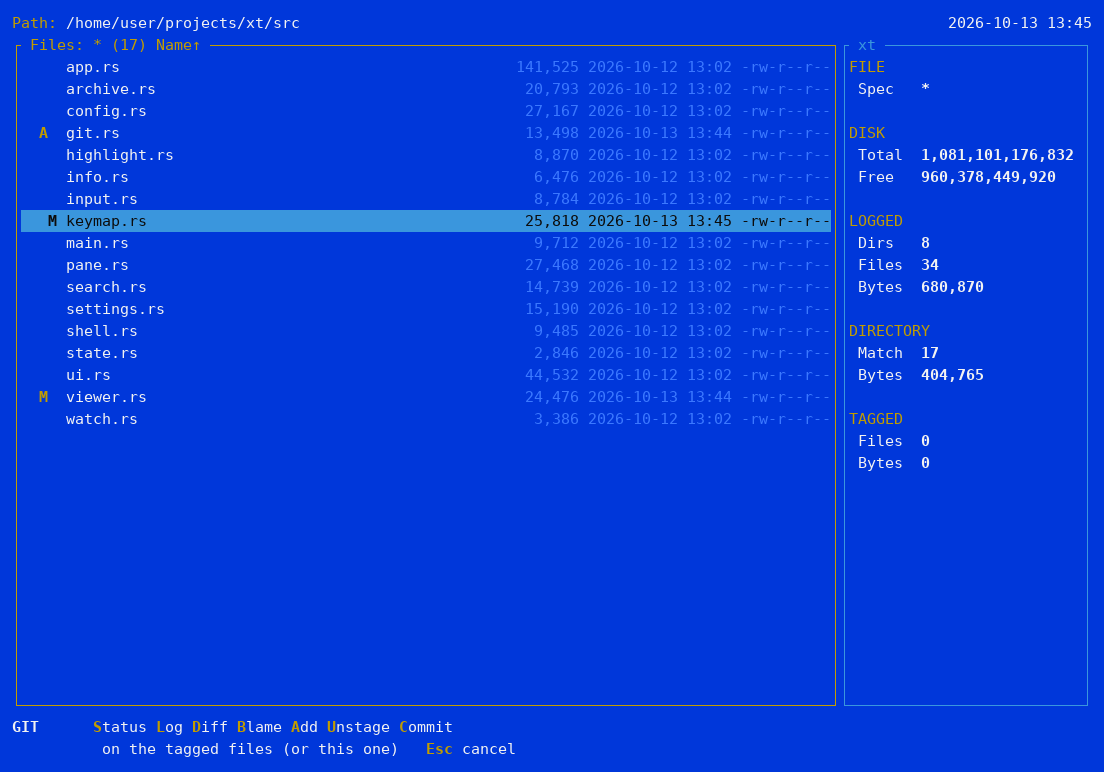
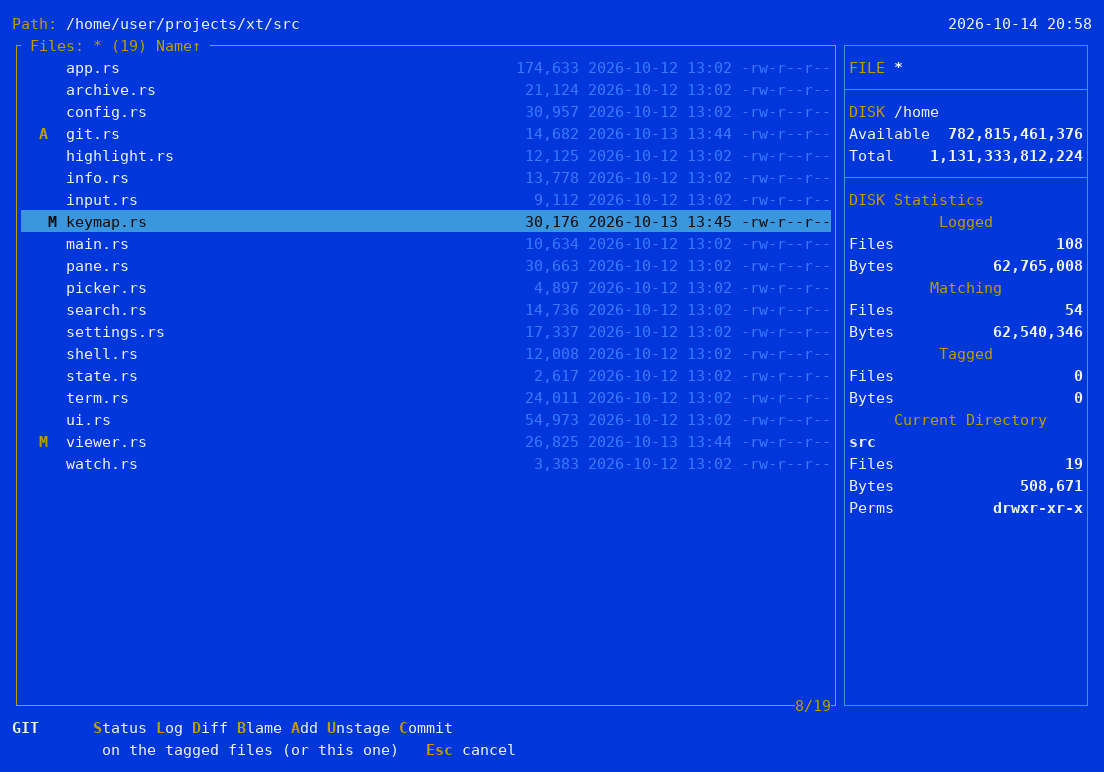
README: new screenshots (right panel, terminal) and the tool that makes them
Tree, gruvbox theme, Branch with tagged files, Git menu and split window
show the new right panel and the position counters on the borders; two
new ones show the built-in terminal (the tree following a cd, and Alt+O
typing the tagged files), in both READMEs.

docs/screenshots/tools/run.sh regenerates them: xt runs in an emulated
terminal (pyte) on a sample tree, mounted at /home/user/projects only
inside a private namespace (unshare), and each screen is drawn as a PNG
with the Campbell colors and DejaVu Sans Mono.

diff --git a/docs/screenshots/tools/shot.py b/docs/screenshots/tools/shot.py
@@ -1,0 +1,109 @@
+"""Runs xt in a pseudo-terminal, sends keys and saves the screen as a PNG.
+
+Usage: shot.py OUT.png XT ROOT [STEP...]; a step is text to type (with
+escapes, e.g. '\\x1bx' for Alt+X) or 'sleep:SECONDS'."""
+import fcntl, os, pty, select, struct, sys, termios, time
+import pyte
+from PIL import Image, ImageDraw, ImageFont
+
+COLS, ROWS, CW, CH, PAD = 120, 34, 9, 22, 12
+# Windows Terminal's "Campbell", as in the first screenshots.
+NAMED = {
+    "black": "0c0c0c", "red": "c50f1f", "green": "13a10e", "brown": "c19c00",
+    "blue": "0037da", "magenta": "881798", "cyan": "3a96dd", "white": "cccccc",
+    "brightblack": "767676", "brightred": "e74856", "brightgreen": "16c60c",
+    "brightbrown": "f9f1a5", "brightblue": "3b78ff", "brightmagenta": "b4009e",
+    "brightcyan": "61d6d6", "brightwhite": "f2f2f2",
+}
+# The same 16 colors when they come as indexes (ESC[38;5;Nm): pyte turns
+# them into xterm's tones.
+XTERM = ["000000", "cd0000", "00cd00", "cdcd00", "0000ee", "cd00cd", "00cdcd", "e5e5e5",
+         "7f7f7f", "ff0000", "00ff00", "ffff00", "5c5cff", "ff00ff", "00ffff", "ffffff"]
+CAMPBELL = ["black", "red", "green", "brown", "blue", "magenta", "cyan", "white"]
+CAMPBELL += ["bright" + c for c in CAMPBELL]
+for tone, name in zip(XTERM, CAMPBELL):
+    NAMED[tone] = NAMED[name]
+DEFAULT_FG, DEFAULT_BG = "cccccc", "0c0c0c"
+FONT = "/usr/share/fonts/truetype/dejavu/DejaVuSansMono.ttf"
+BOLD = "/usr/share/fonts/truetype/dejavu/DejaVuSansMono-Bold.ttf"
+
+out, xt, root, steps = sys.argv[1], sys.argv[2], sys.argv[3], sys.argv[4:]
+screen = pyte.Screen(COLS, ROWS)
+stream = pyte.ByteStream(screen)
+pid, fd = pty.fork()
+if pid == 0:
+    os.environ["TERM"] = "xterm-256color"
+    os.chdir(root)
+    os.execv(xt, [xt, root])
+fcntl.ioctl(fd, termios.TIOCSWINSZ, struct.pack("HHHH", ROWS, COLS, 0, 0))
+
+
+def pump(seconds):
+    end = time.time() + seconds
+    while time.time() < end:
+        if select.select([fd], [], [], 0.05)[0]:
+            try:
+                data = os.read(fd, 65536)
+            except OSError:
+                return
+            stream.feed(data)
+            if b"\x1b[6n" in data:
+                os.write(fd, f"\x1b[{screen.cursor.y + 1};{screen.cursor.x + 1}R".encode())
+
+
+pump(1.5)
+for step in steps:
+    if step.startswith("sleep:"):
+        pump(float(step[6:]))
+        continue
+    os.write(fd, step.encode().decode("unicode_escape").encode("utf-8"))
+    pump(0.8)
+pump(0.5)
+
+
+def color(name, default, bold=False):
+    if name == "default":
+        return "#" + default
+    return "#" + NAMED.get(name, name)
+
+
+img = Image.new("RGB", (COLS * CW + 2 * PAD, ROWS * CH + 2 * PAD))
+draw = ImageDraw.Draw(img)
+font, bold = ImageFont.truetype(FONT, 15), ImageFont.truetype(BOLD, 15)
+# The margin takes the color of the screen's corner.
+corner = screen.buffer[0][0]
+draw.rectangle([0, 0, img.width, img.height], fill=color(corner.bg, DEFAULT_BG))
+# Box-drawing characters as lines, so that they join across cells:
+# (up, down, left, right).
+BOX = {
+    "─": (0, 0, 1, 1), "│": (1, 1, 0, 0), "┌": (0, 1, 0, 1), "┐": (0, 1, 1, 0),
+    "└": (1, 0, 0, 1), "┘": (1, 0, 1, 0), "├": (1, 1, 0, 1), "┤": (1, 1, 1, 0),
+    "┬": (0, 1, 1, 1), "┴": (1, 0, 1, 1), "┼": (1, 1, 1, 1),
+}
+for y in range(ROWS):
+    row = screen.buffer[y]
+    for x in range(COLS):
+        ch = row[x]
+        fg, bg = color(ch.fg, DEFAULT_FG), color(ch.bg, DEFAULT_BG)
+        if ch.reverse:
+            fg, bg = bg, fg
+        px, py = PAD + x * CW, PAD + y * CH
+        draw.rectangle([px, py, px + CW - 1, py + CH - 1], fill=bg)
+        text = ch.data
+        if not text.strip():
+            continue
+        if text in BOX:
+            up, down, left, right = BOX[text]
+            cx, cy = px + CW // 2, py + CH // 2
+            if left:
+                draw.line([px, cy, cx, cy], fill=fg)
+            if right:
+                draw.line([cx, cy, px + CW - 1, cy], fill=fg)
+            if up:
+                draw.line([cx, py, cx, cy], fill=fg)
+            if down:
+                draw.line([cx, cy, cx, py + CH - 1], fill=fg)
+            continue
+        draw.text((px, py + 3), text, font=bold if ch.bold else font, fill=fg)
+img.save(out)
+os.kill(pid, 9)

diff --git a/README.md b/README.md
@@ -216,6 +216,14 @@ Status in color, as in a terminal (here with the `dark` theme):
 Not in XTree or ZTreeWin: your shell (`$SHELL`) running inside xt's screen,
 in the bottom part, with the tree and the files still visible above it.
 
+A `cd` in the terminal takes the tree along:
+
+![The built-in terminal below the tree, after cd model](docs/screenshots/terminal.png)
+
+Alt+O types the tagged files at the prompt:
+
+![Three tagged photos typed into wc -c with Alt+O](docs/screenshots/terminal-tagged.png)
+
 - **Alt+X** opens the terminal and goes back to xt. The shell keeps running
   while hidden, with its history and whatever it had on screen; `exit`
   closes it.
@@ -575,6 +583,7 @@ In the tree, a `+` on the connector (`├─+`) marks a collapsed directory that
 - `src/model/compare.rs` — Compare rules
 - `src/model/filespec.rs` — file filter
 - `src/ops/` — copy, move and delete, in steps (progress, conflicts, cancellation)
+- `docs/screenshots/tools/` — regenerates the README screenshots (`run.sh`, Linux)
 
 ## Roadmap
 

diff --git a/README.pt-BR.md b/README.pt-BR.md
@@ -220,6 +220,14 @@ Não existe no XTree nem no ZTreeWin: o seu shell (`$SHELL`) rodando dentro da
 tela do xt, na parte de baixo, com a árvore e os arquivos ainda visíveis em
 cima.
 
+Um `cd` no terminal leva a árvore junto:
+
+![O terminal embutido abaixo da árvore, depois de cd model](docs/screenshots/terminal.png)
+
+Alt+O digita os arquivos marcados no prompt:
+
+![Três fotos marcadas digitadas num wc -c com Alt+O](docs/screenshots/terminal-tagged.png)
+
 - **Alt+X** abre o terminal e volta ao xt. O shell continua rodando enquanto
   está escondido, com o histórico e o que estava na tela; `exit` fecha o
   shell.
@@ -582,6 +590,7 @@ Na árvore, `+` no conector (`├─+`) indica um diretório recolhido que tem s
 - `src/model/compare.rs` — regras do Compare
 - `src/model/filespec.rs` — filtro de arquivos
 - `src/ops/` — copiar, mover e apagar, em passos (progresso, conflitos, cancelamento)
+- `docs/screenshots/tools/` — refaz as capturas de tela do README (`run.sh`, Linux)
 
 ## Roteiro
 
